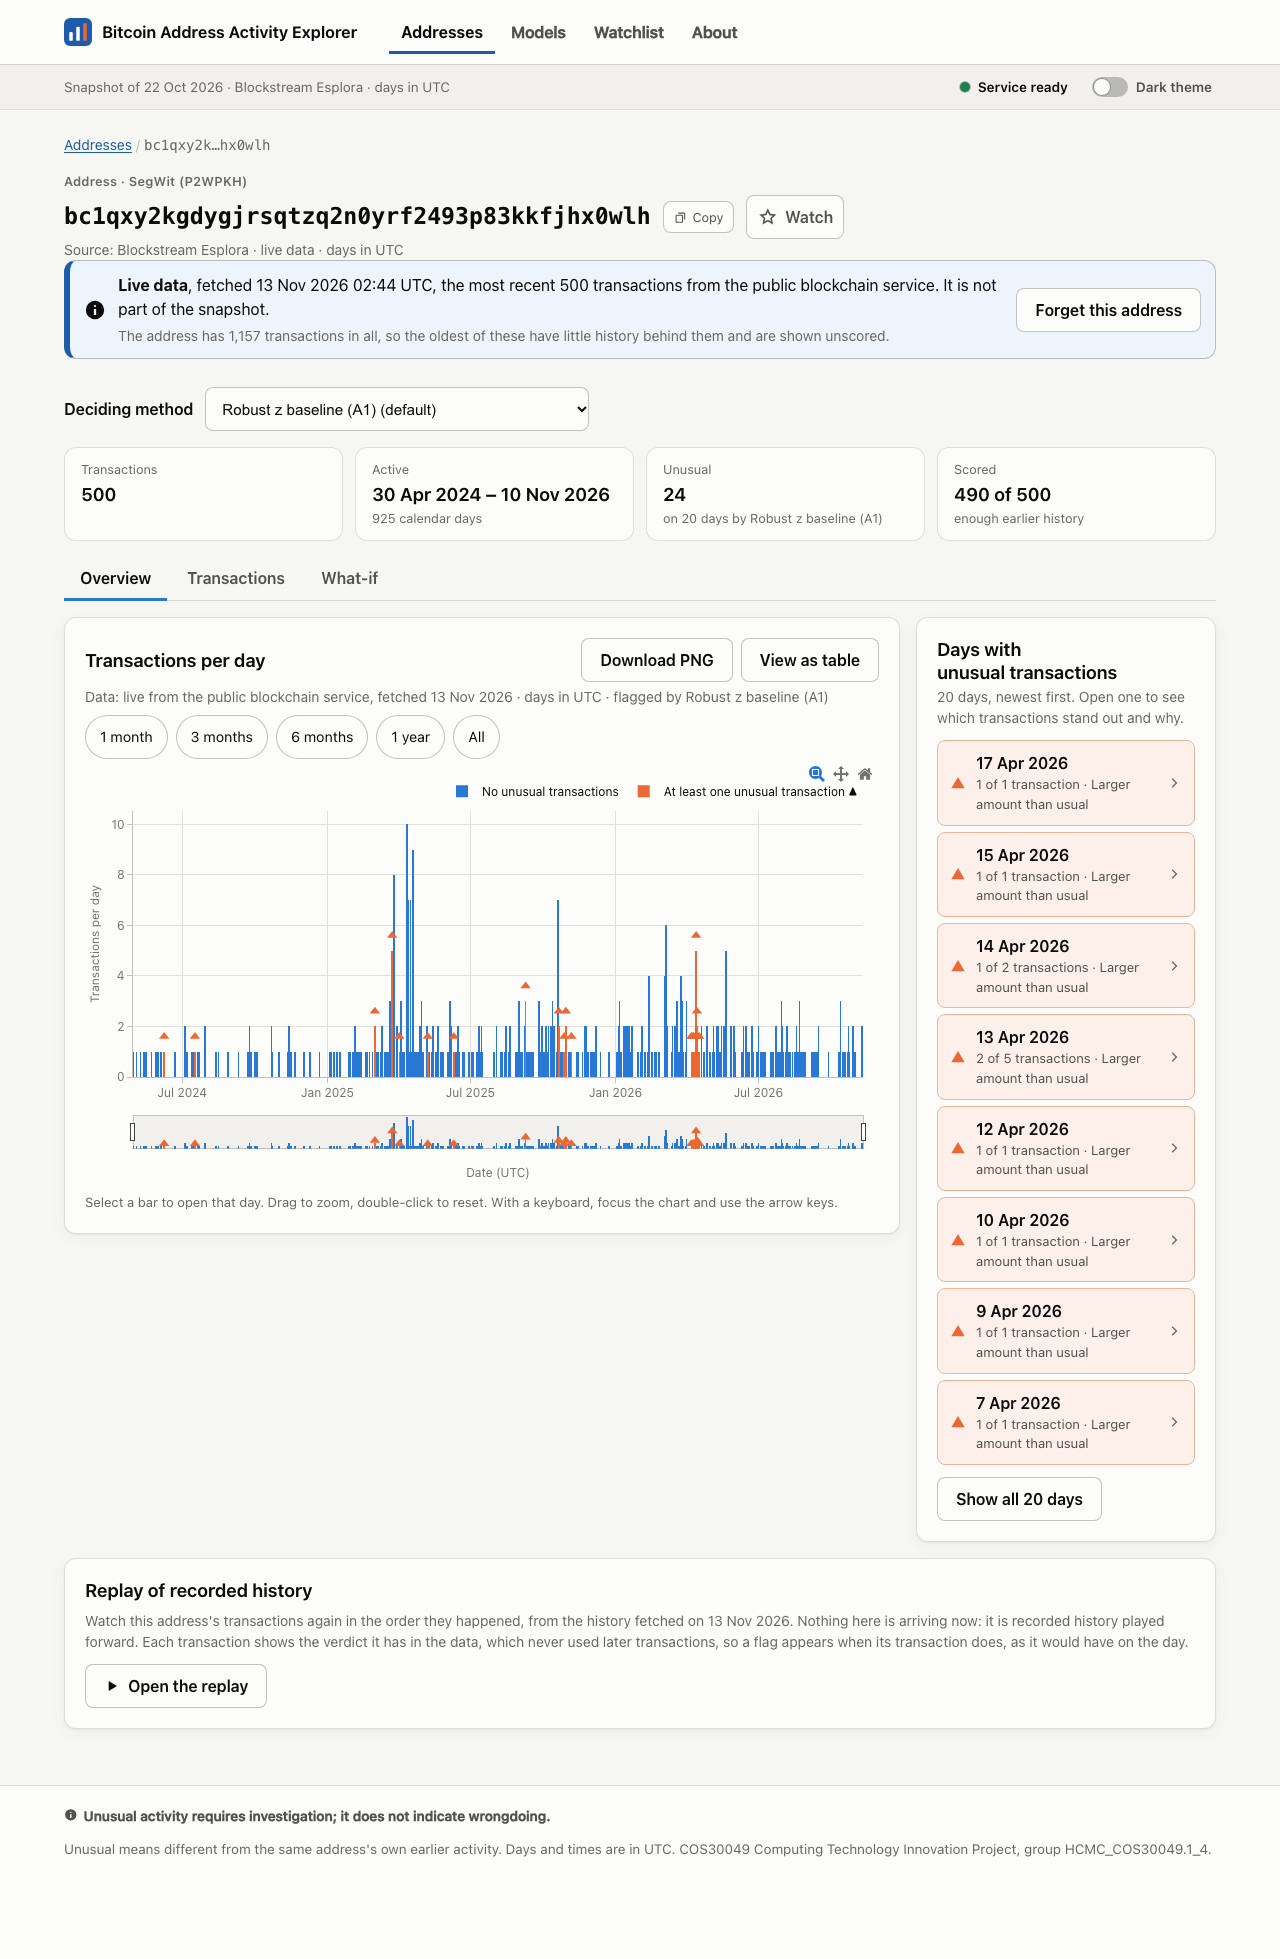
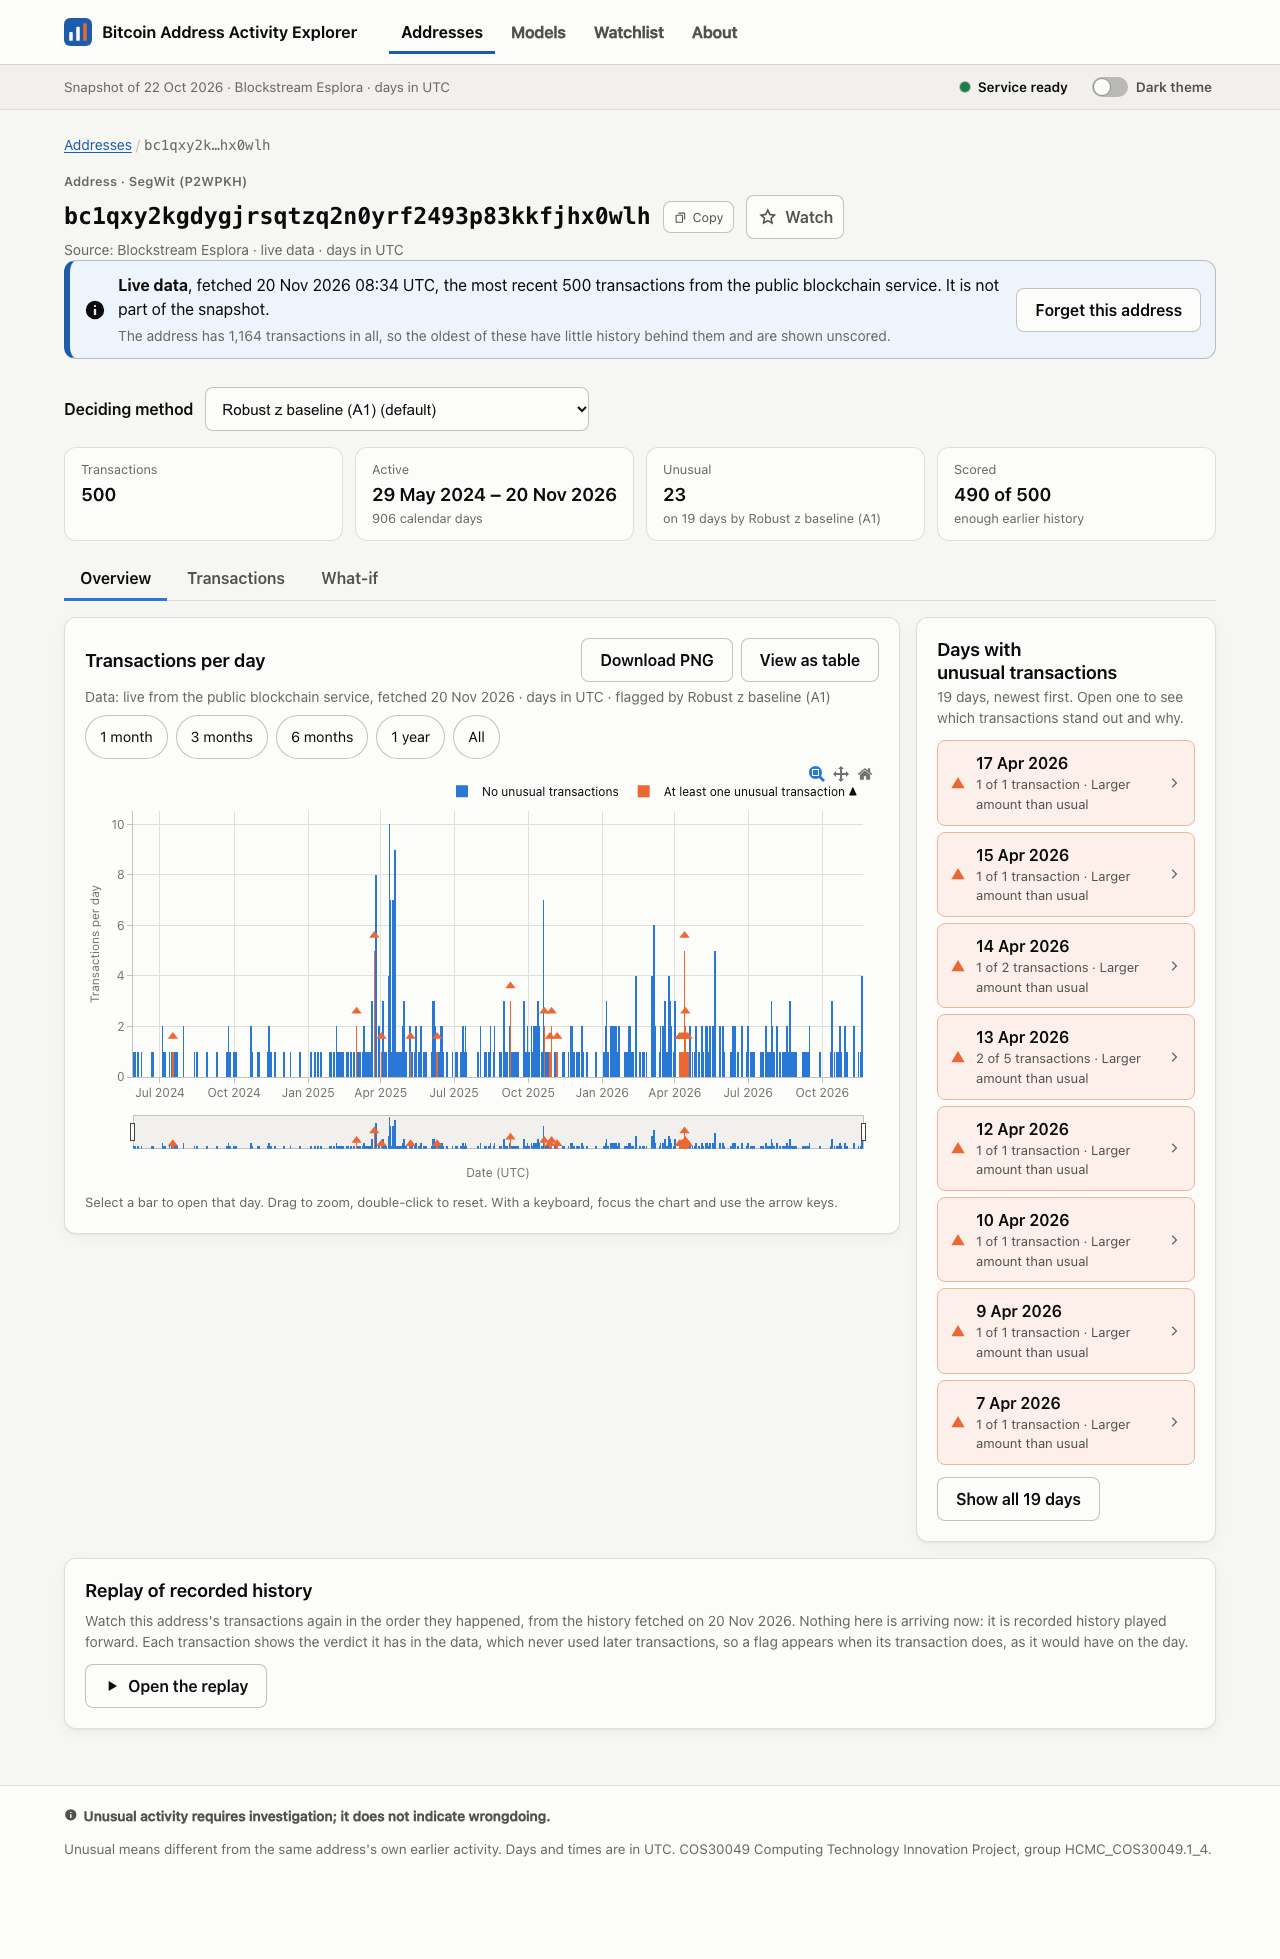
Screenshots: the six live-lookup shots re-taken; lead review notes

diff --git a/docs/AI_USE_LOG.md b/docs/AI_USE_LOG.md
@@ -36,4 +36,4 @@ Cao Tri Tran); a written confirmation by email is expected and will be saved in 
 | 2026-11-19 | Cao Tri Tran | Claude Code (Haiku 5.5 subagent) | Refreshed the status text in CLAUDE.md, HANDOFF §2/§8 and TODO; added the wrap-up plan | `CLAUDE.md`, `docs/HANDOFF.md`, `TODO.md`, `docs/WORKLOG.md`, `docs/AI_USE_LOG.md` | Lead (Opus 5.5) read the whole diff against the repo state; fixed two stale test counts in HANDOFF §5 and the Should-item wording |
 | 2026-11-19 | Cao Tri Tran | Claude Code (Haiku 5.5 subagent; reviewed by Opus 5.5) | Fixed the chart owners in the team briefing to match the plan's schedule (T23–T27, T31) and rebuilt it | `../explainers/a3/t05-people-rules.tex`, `a3.pdf` (outside the repo; backup `a3.bak-20261119`) | Lead corrected Dan's row (the brief's wording put Khang on G2 and Tri on G3), rebuilt (17 pages, no new overfull boxes), checked the rendered page |
 | 2026-11-19 | Cao Tri Tran | Claude Code (Sonnet 5.5 subagent) | Built S-11 browser tests: Playwright (pinned), 9 projects (3 browsers x 390/820/1280), a fixture that fails on sideways scroll or console errors, one spec per journey J1 to J6, `npm run e2e` / `e2e:quick`, a Chromium CI job | `frontend/playwright.config.ts`, `frontend/e2e/`, `frontend/package.json`, `.github/workflows/ci.yml`, `.gitignore`, `CLAUDE.md`, `TODO.md`, `docs/` (branch `s11-browser`) | Lead (Opus 5.5) read the config, fixture and specs; in a clean worktree ran `npm ci`, Vitest 653, typecheck, build, `npm run e2e` 99/99 with the full back-end suite (739 + 2 skipped) running alongside; showed the tests fail on a 600px-wide page at 390 (sideways scroll), a truncated limitation line (J2, WebKit 820) and a planted console error (Firefox 390) |
-| 2026-11-19 | Cao Tri Tran | Claude Code (Haiku 5.5 subagent) | Re-took the app screenshots with `npm run screenshots` (real, mock-only and live runs) | `docs/screenshots/` | Lead review pending |
+| 2026-11-19 | Cao Tri Tran | Claude Code (Haiku 5.5 subagent) | Re-took the app screenshots with `npm run screenshots` (real, mock-only and live runs) | `docs/screenshots/` | Lead (Opus 5.5) looked at the live shots, 58 and the detail pages; took the six `live-*` shots itself (the cook's live runs were stopped too early); all 70 current |

diff --git a/docs/WORKLOG.md b/docs/WORKLOG.md
@@ -1044,4 +1044,6 @@ accessible control); the CI job uploads the HTML report on failure.
 
 **Evidence.** 64 numbered PNGs plus 6 `live-*` = 70 in `docs/screenshots/`. 45 PNGs changed; 25 are byte-identical to the previous set. `git status` shows only `docs/screenshots/` PNGs and these doc files. `backend/var/` (the back end's SQLite and live cache) is git-ignored and not committed.
 
+**Lead review (Opus 5.5), 20 Nov.** The live lookup works (a hand run fetched 500 of 1,164 transactions); the cook's runs were stopped before the ~30 s fetch finished, and the Mac's idle sleep froze processes for minutes. The lead took the six `live-*` shots (`LIVE=1 ONLY='^live'`, responsive check passed); three changed, three came out identical. The Assistant label on 08 and 58 is correct: those are the prepared answers the Assistant wrote in advance (Mod-15), served without the weights; a what-if (30) has no prepared answer, so it uses the template. All 70 shots are current.
+
 **Open.** Live-lookup shots not refreshed (the lookup stalls on the real block explorer). The Assistant text question above.
